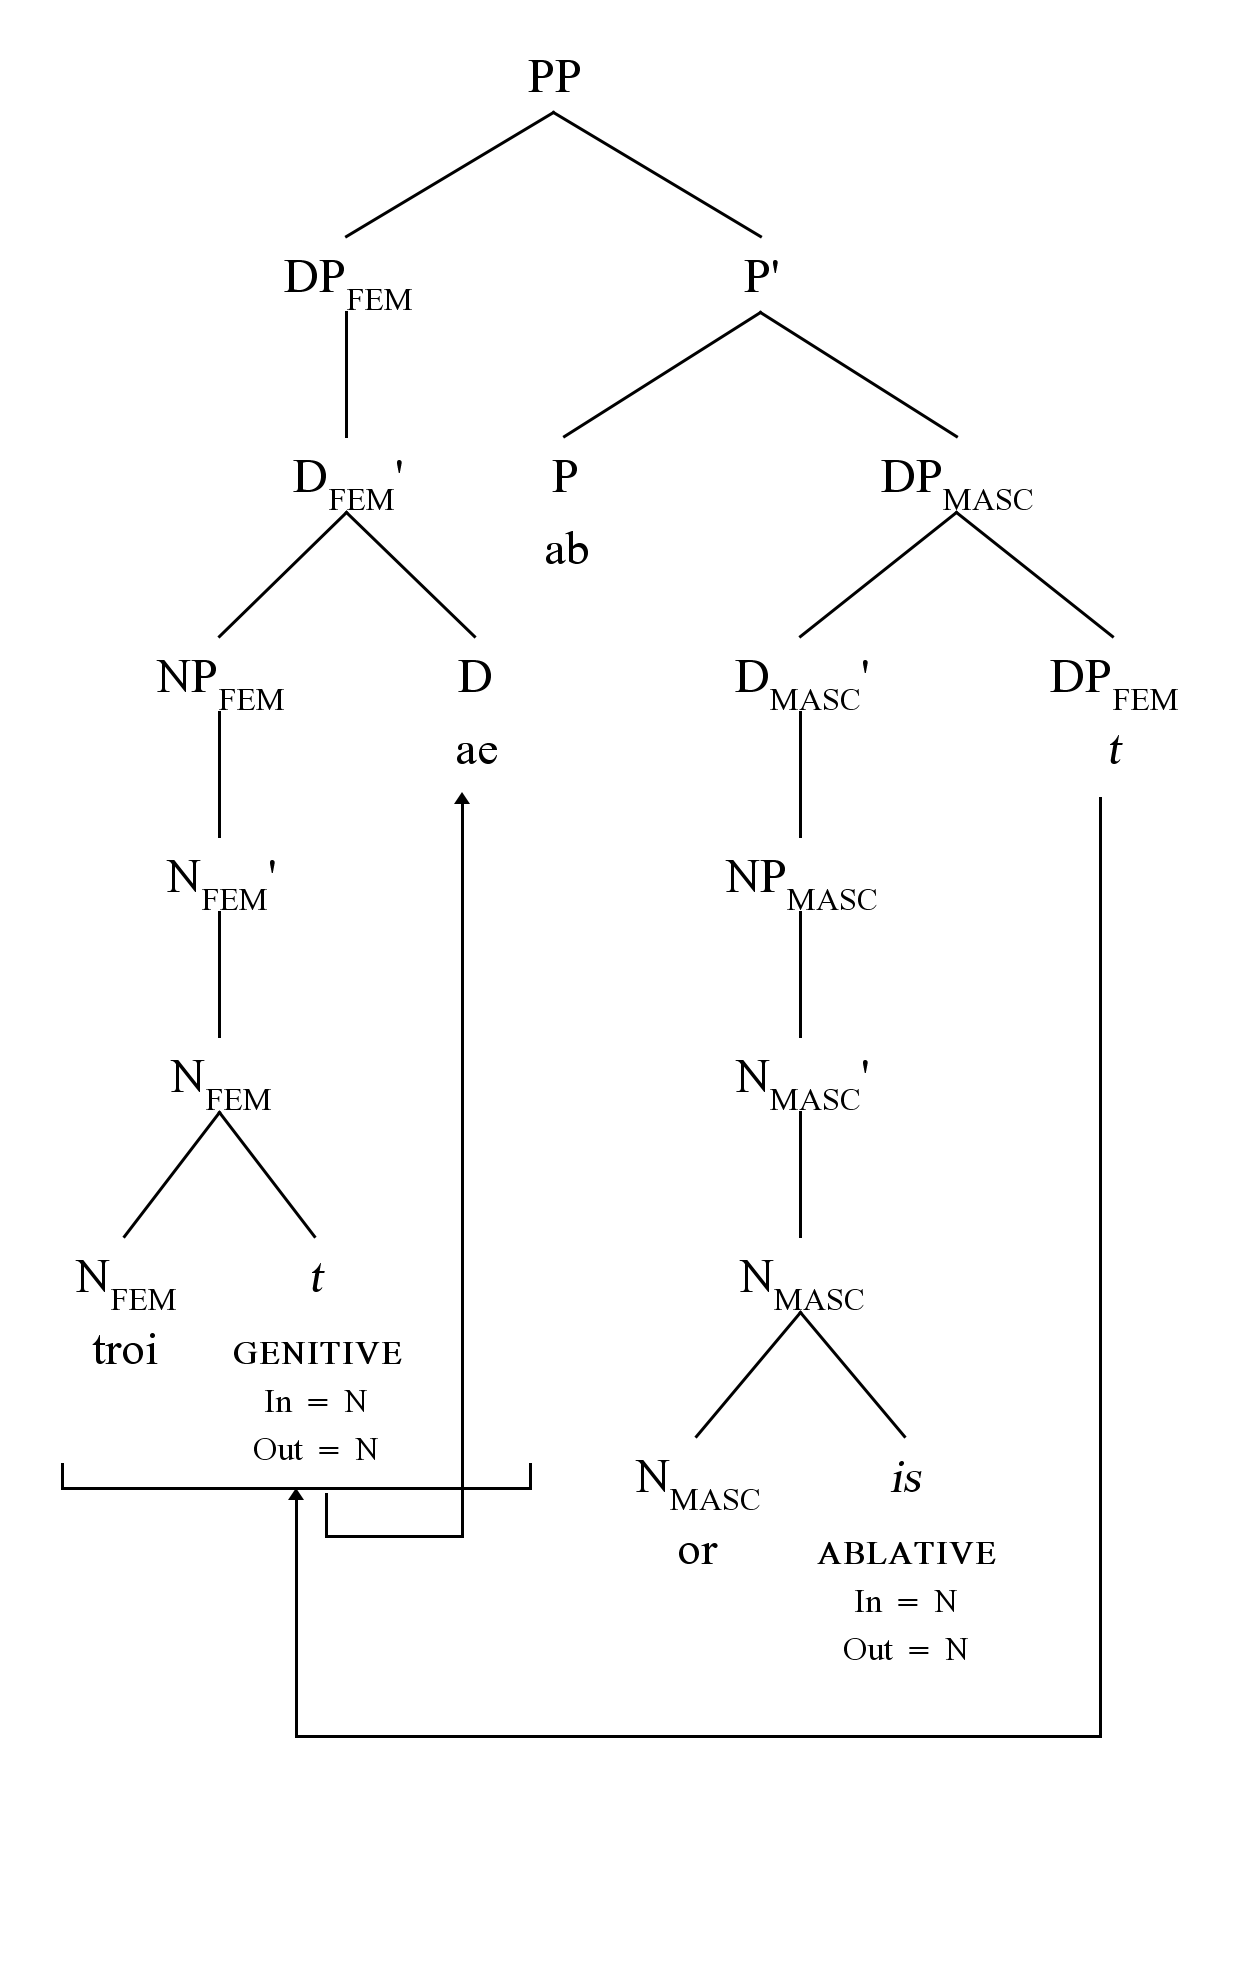
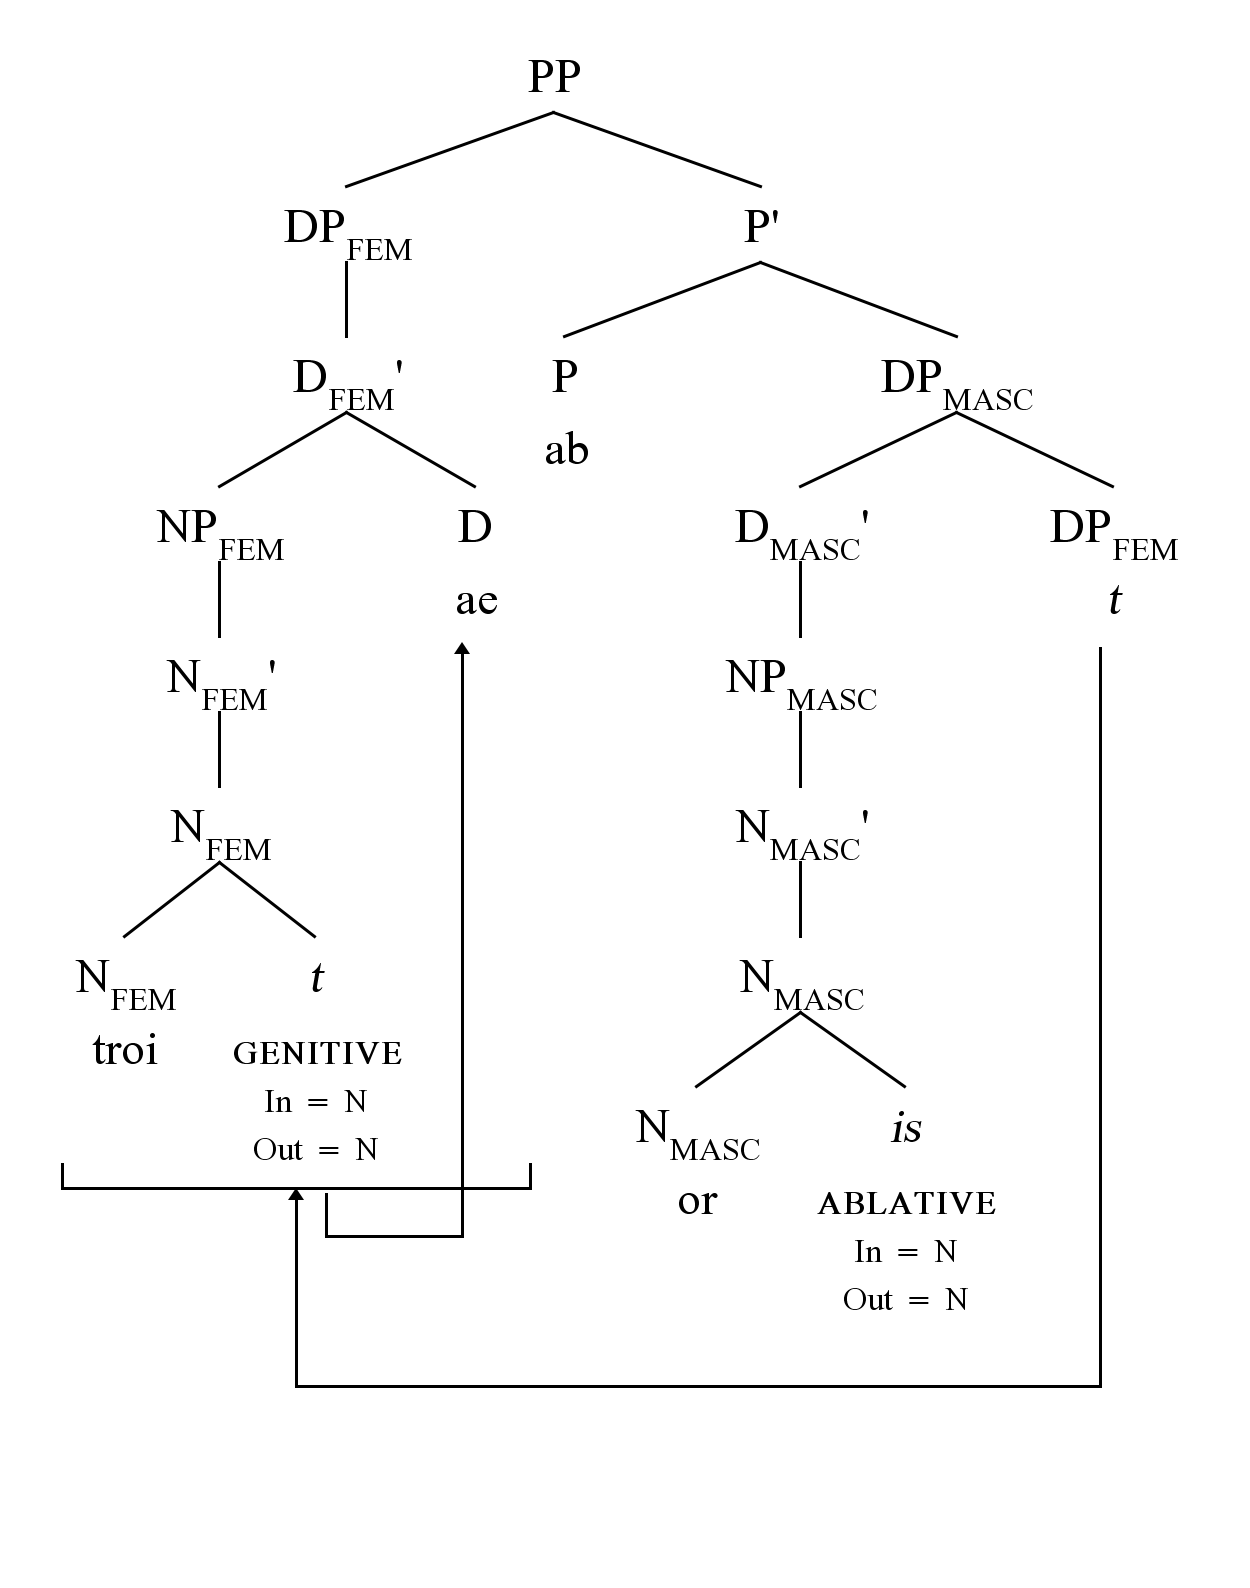
made more compact + deleted a useless temp.txt

diff --git a/src/main/syntax/JSyntaxTree.java b/src/main/syntax/JSyntaxTree.java
@@ -98,7 +98,7 @@ public class JSyntaxTree extends JPanel {
         float strokeWeight = 3.0F;
         int border = 50;
         int spacingX = 50;
-        int spacingY = 200;
+        int spacingY = 150;
         String font_name = "Doulos SIL";
 
         if (getOption(args, "-o") != null)

diff --git a/src/main/window/GUI.java b/src/main/window/GUI.java
@@ -175,7 +175,7 @@ public class GUI extends Frame implements ActionListener {
 		j1.add(sx);
 
 		j1.add(new Label("Spacing Y"));
-		sy = new TextField("200", 20);
+		sy = new TextField("150", 20);
 		j1.add(sy);
 
 		j1.add(new Label("Line Width"));

diff --git a/README.md b/README.md
@@ -17,7 +17,7 @@ Syntax		Default		Desc
 -fs <INT>	48		font size
 -l <FLOAT>	3.0		stroke size (for the lines)
 -sx <INT>	50		spacing between adjacent nodes horizontally
--sy <INT>	200		spacing between adjacent nodes vertically
+-sy <INT>	150		spacing between adjacent nodes vertically
 -c		-		color the tree
 -q		-		quits right after generation - no preview window
 -b <INT>	50		adds padding around the tree
